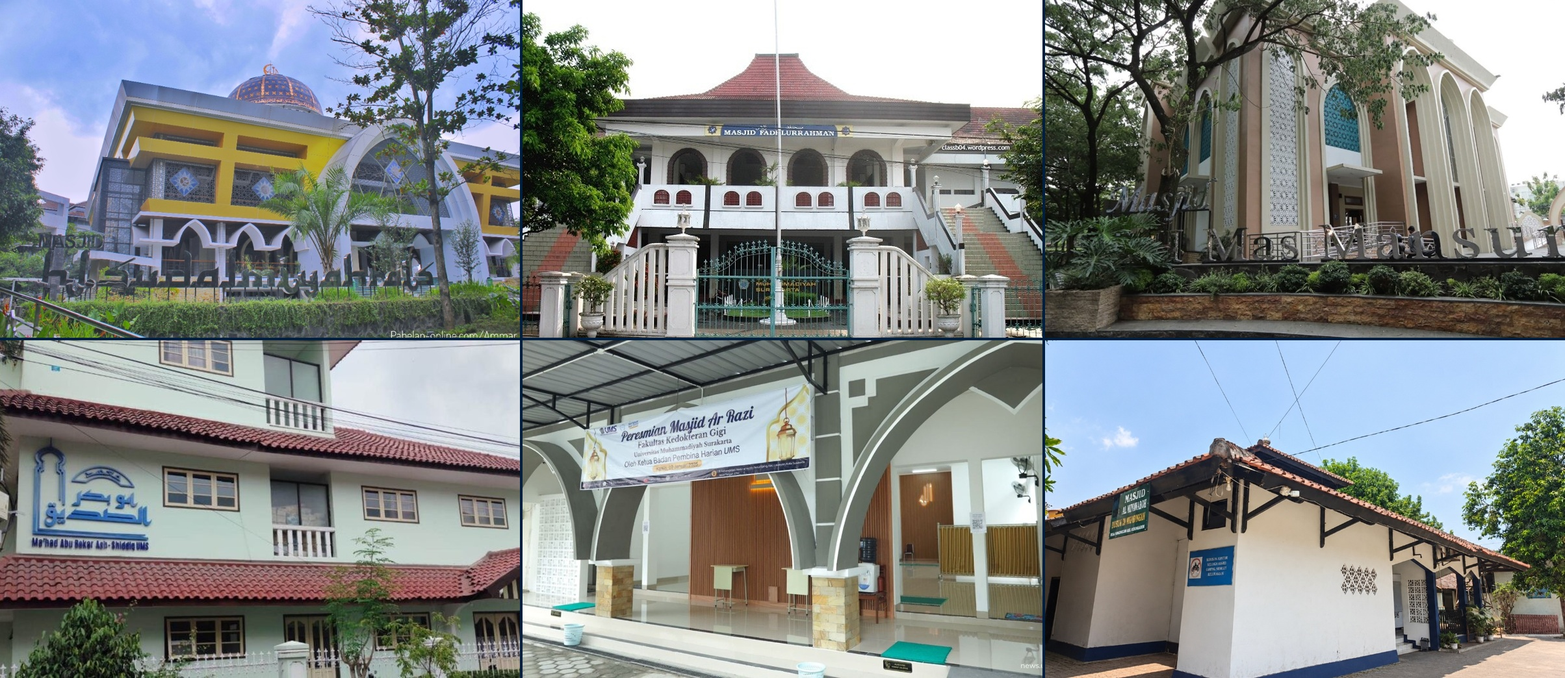
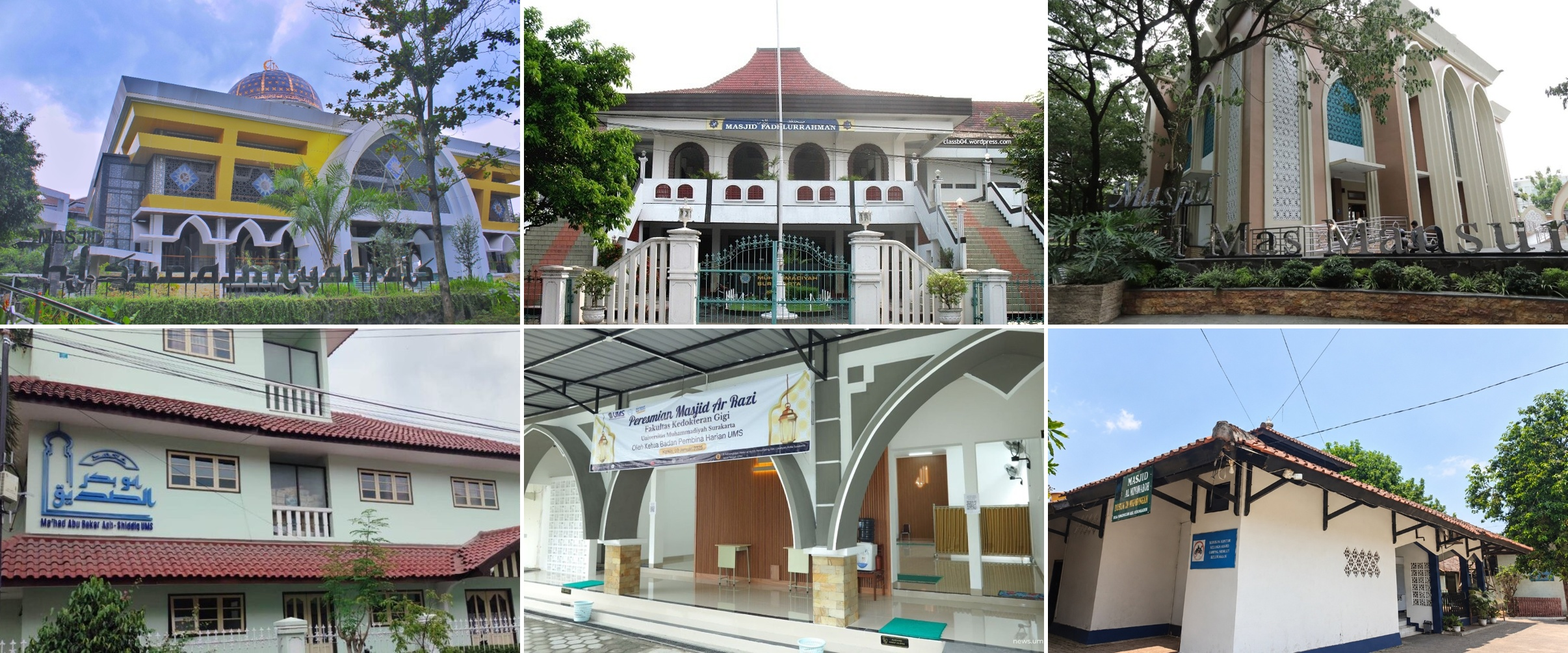
style: hapus gradasi mengganggu dan buat foto 6 masjid terlihat jelas dengan garis pembatas

Changed region(s): [[0.0, 0.0, 1.0, 1.0], [0.1246, 0.0924, 0.1869, 0.1541], [0.8721, 0.6163, 0.9032, 0.6471]]

diff --git a/src/app/sejarah/page.tsx b/src/app/sejarah/page.tsx
@@ -214,31 +214,30 @@ export default function SejarahPage() {
 
       <main className="flex-1 pb-16">
         {/* Hero Section dengan Background Kolase 6 Masjid Kampus */}
-        <section className="relative text-white pt-14 pb-24 sm:pb-32 overflow-hidden">
+        <section className="relative text-white py-14 sm:py-20 overflow-hidden border-b-2 border-stone-300/80">
           {/* Background Image: Kolase 6 Masjid Kampus UMS */}
           <div className="absolute inset-0">
             <Image
               src="/images/banner-sejarah-6-masjid.jpg"
               alt="Kolase 6 Masjid Kampus Universitas Muhammadiyah Surakarta"
               fill
-              className="object-cover object-center scale-105"
+              className="object-cover object-center"
               priority
             />
-            {/* Multi-layer gradient overlay untuk kontras dan estetika arsitektural */}
-            <div className="absolute inset-0 bg-gradient-to-r from-[#001F3F]/95 via-[#002855]/90 to-[#001F3F]/80" />
-            <div className="absolute inset-0 bg-gradient-to-t from-[#FAF8F5] via-transparent to-[#001F3F]/75" />
+            {/* Penyamar halus merata tanpa gradasi mengganggu agar foto 6 masjid terlihat jelas */}
+            <div className="absolute inset-0 bg-black/45" />
           </div>
 
           <div className="max-w-7xl mx-auto px-4 sm:px-6 lg:px-8 relative z-10">
-            <div className="max-w-3xl">
-              <div className="inline-flex items-center gap-2 px-3.5 py-1.5 rounded-full bg-black/40 backdrop-blur-md border border-white/25 text-[#FCD34D] text-xs font-semibold uppercase tracking-wider mb-4 shadow-sm">
+            <div className="max-w-2xl bg-black/40 backdrop-blur-md p-6 sm:p-8 rounded-3xl border border-white/20 shadow-2xl">
+              <div className="inline-flex items-center gap-2 px-3.5 py-1.5 rounded-full bg-black/50 border border-white/30 text-[#FCD34D] text-xs font-semibold uppercase tracking-wider mb-4 shadow-sm">
                 <BookOpen className="w-3.5 h-3.5" />
                 <span>Dokumentasi Sejarah &amp; Arsip Legalitas</span>
               </div>
               <h1 className="text-3xl sm:text-5xl lg:text-6xl font-black font-serif tracking-tight text-white leading-tight drop-shadow-md">
                 Sejarah Masjid Kampus UMS
               </h1>
-              <p className="mt-4 text-stone-200 text-sm sm:text-base lg:text-lg leading-relaxed font-light max-w-2xl drop-shadow-sm">
+              <p className="mt-4 text-stone-100 text-sm sm:text-base lg:text-lg leading-relaxed font-normal drop-shadow-sm">
                 Menelusuri jejak perintisan dakwah, penetapan nama pejuang &amp; tokoh persyarikatan, 
                 serta arsip Surat Keputusan (SK) resmi pengelolaan masjid percontohan di lingkungan 
                 Universitas Muhammadiyah Surakarta.
@@ -248,7 +247,7 @@ export default function SejarahPage() {
         </section>
 
         {/* SECTION 1: SEJARAH UTAMA - MASJID HJ. SUDALMIYAH SUHUD RAIS */}
-        <section className="relative z-20 max-w-7xl mx-auto px-4 sm:px-6 lg:px-8 -mt-12 sm:-mt-16 mb-16">
+        <section className="relative z-20 max-w-7xl mx-auto px-4 sm:px-6 lg:px-8 mt-8 sm:mt-12 mb-16">
             <div className="bg-white border border-stone-200/90 rounded-3xl p-6 sm:p-10 lg:p-12 shadow-xl">
               {/* Badge & Title */}
               <div className="flex flex-wrap items-center justify-between gap-4 pb-6 border-b border-stone-200">
